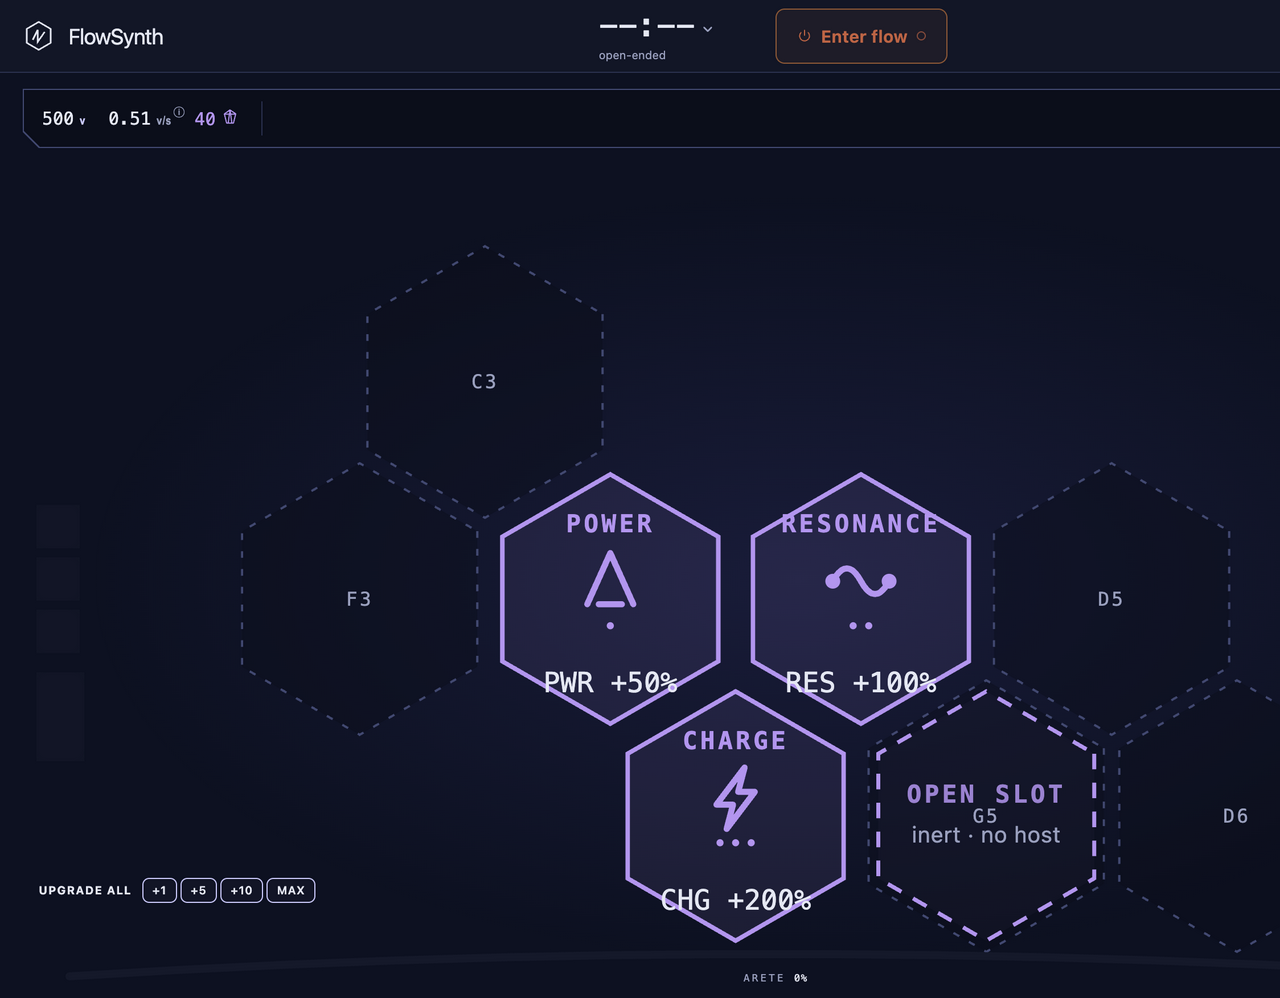
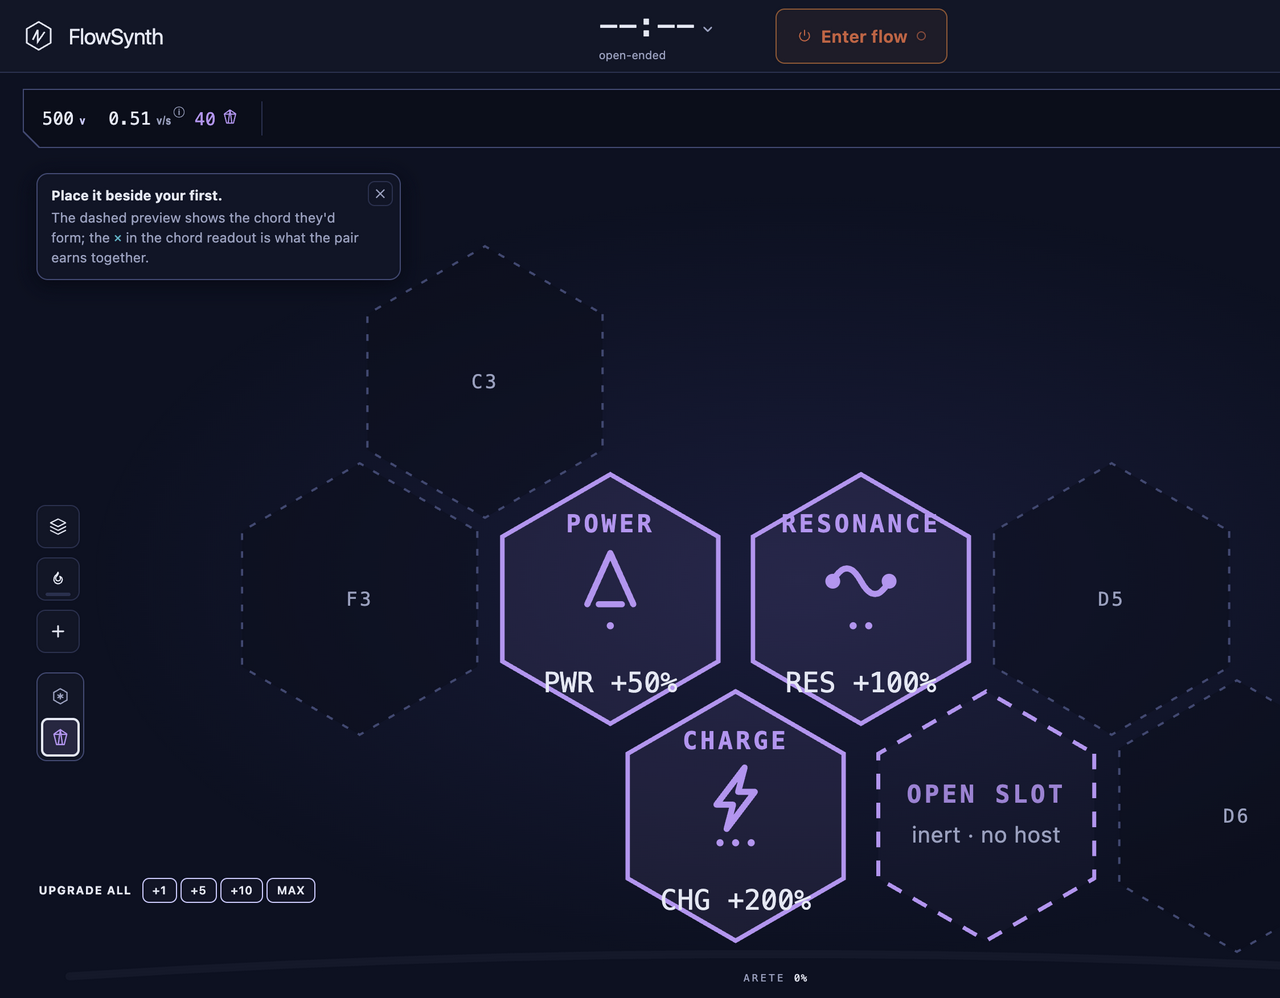
Hide the covered cell's chassis and note beneath its slot face (#298)
The empty cell's dashed chassis and pitch note ghosted through the
slot faces' own words — the note sandwiched between OPEN SLOT and its
inert verdict, another trailing the glyph. Cells under a slot now
carry mut-covered, and the live layer hides both beneath the face;
free cells keep their notes for orientation.

diff --git a/src/ui/render.ts b/src/ui/render.ts
@@ -1197,8 +1197,12 @@ function renderGrid(app: App, live: RateSnapshot, projected: RateSnapshot, overl
     const module = deployedAt(state, pos);
     const drop = dropRegister(app, pos);
     const label = module ? `${META[module.type].name} at ${cellNoteOf(pos)}` : `Empty cell · ${cellNoteOf(pos)}`;
+    // A cell under a Mutator slot face (issue #298): the stylesheet hides
+    // the empty chassis and its note beneath the live layer's own face,
+    // so nothing ghosts through the slot's words.
+    const covered = state.mutatorSlots.some((slot) => sameHex(slot, pos)) ? " mut-covered" : "";
     if (module) {
-      html += `<g class="cell-node" transform="translate(${x},${y})" data-cell="${pos.q},${pos.r}" tabindex="0" role="button" aria-label="${label}">`;
+      html += `<g class="cell-node${covered}" transform="translate(${x},${y})" data-cell="${pos.q},${pos.r}" tabindex="0" role="button" aria-label="${label}">`;
       html += moduleNode(app, module, pos, { snapshot, drop });
       html += `</g>`;
       continue;
@@ -1211,7 +1215,7 @@ function renderGrid(app: App, live: RateSnapshot, projected: RateSnapshot, overl
     let classes = "hex empty";
     if (drop) classes += ` ${dropClass(drop)}`;
     if (isTargetCell(app)) classes += " target";
-    html += `<g class="cell-node" transform="translate(${x},${y})" data-cell="${pos.q},${pos.r}" tabindex="0" role="button" aria-label="${label}">
+    html += `<g class="cell-node${covered}" transform="translate(${x},${y})" data-cell="${pos.q},${pos.r}" tabindex="0" role="button" aria-label="${label}">
       <polygon class="${classes}" points="${hexPoints(HEX_RADIUS)}"/>
       <text y="0" dominant-baseline="central" text-anchor="middle" class="hex-note">${cellNoteOf(pos)}</text></g>`;
   }

diff --git a/src/ui/mutators.test.ts b/src/ui/mutators.test.ts
@@ -227,6 +227,11 @@ describe("the Mutators layer's slot faces", () => {
     expect(css).toMatch(/body\.mut-layer-live #grid \.cell-node:has\(\.module-node\),[^}]*\.charge-preview-line \{\s*display: none;\s*\}/);
     expect(css).toMatch(/body\.mut-layer-live #grid \.cell-node \{\s*pointer-events: none;\s*\}/);
     expect(css).not.toMatch(/body\.mut-layer-live[^{]*grayscale/);
+    // A covered cell's empty chassis and note hide beneath the slot face —
+    // nothing ghosts through the face's own words.
+    expect(css).toMatch(/body\.mut-layer-live #grid \.cell-node\.mut-covered \.hex\.empty,[^}]*\.hex-note \{\s*display: none;\s*\}/);
+    expect(document.querySelector('[data-cell="1,0"]')!.classList.contains("mut-covered")).toBe(true);
+    expect(document.querySelector('[data-cell="0,1"]')!.classList.contains("mut-covered")).toBe(false);
   });
 });
 

diff --git a/src/ui/style.css b/src/ui/style.css
@@ -2414,6 +2414,10 @@ body.hex-detail-open .upgrade-all {
    relationships and the external bonuses live one click away, in the Hex
    detail's stack and breakdowns. */
 body.mut-layer-live #grid .cell-node { pointer-events: none; }
+/* A covered cell's empty chassis and note never ghost through the slot
+   face's own words (issue #298) — the slot face is that cell's face. */
+body.mut-layer-live #grid .cell-node.mut-covered .hex.empty,
+body.mut-layer-live #grid .cell-node.mut-covered .hex-note { display: none; }
 /* Ghost marks hide with the formed ones: no module gesture can stand on
    this layer, so nothing ever raises one — the group is simply absent. */
 body.mut-layer-live #grid .cell-node:has(.module-node),

diff --git a/docs/evidence/298-mutators-quiet/README.md b/docs/evidence/298-mutators-quiet/README.md
@@ -1,8 +1,11 @@
 # The quiet Mutators grid — review evidence
 
-Source: issue #298 (this branch's working tree on top of commit
-`81dee00490e41150c4703b95d57a75f0e6acf71d` — the captures include the
-uncommitted quiet-layer work). Launched this checkout with `npm run dev`;
+Source: issue #298 (captures begin on this branch's working tree on top
+of commit `81dee00490e41150c4703b95d57a75f0e6acf71d` and finish on top
+of `afd561167335feab0d69fd679d8f036e46620a2d` — the quiet-layer work
+plus its follow-up fix hiding a covered cell's empty chassis and note
+beneath the slot face, so nothing ghosts through the face's own words).
+Launched this checkout with `npm run dev`;
 the provenance endpoint's `worktree` and `commit` matched `git rev-parse`
 in this checkout before every capture (checked again from the tab itself
 via `fetch("/-/dev/provenance")`). States were staged through the app's
